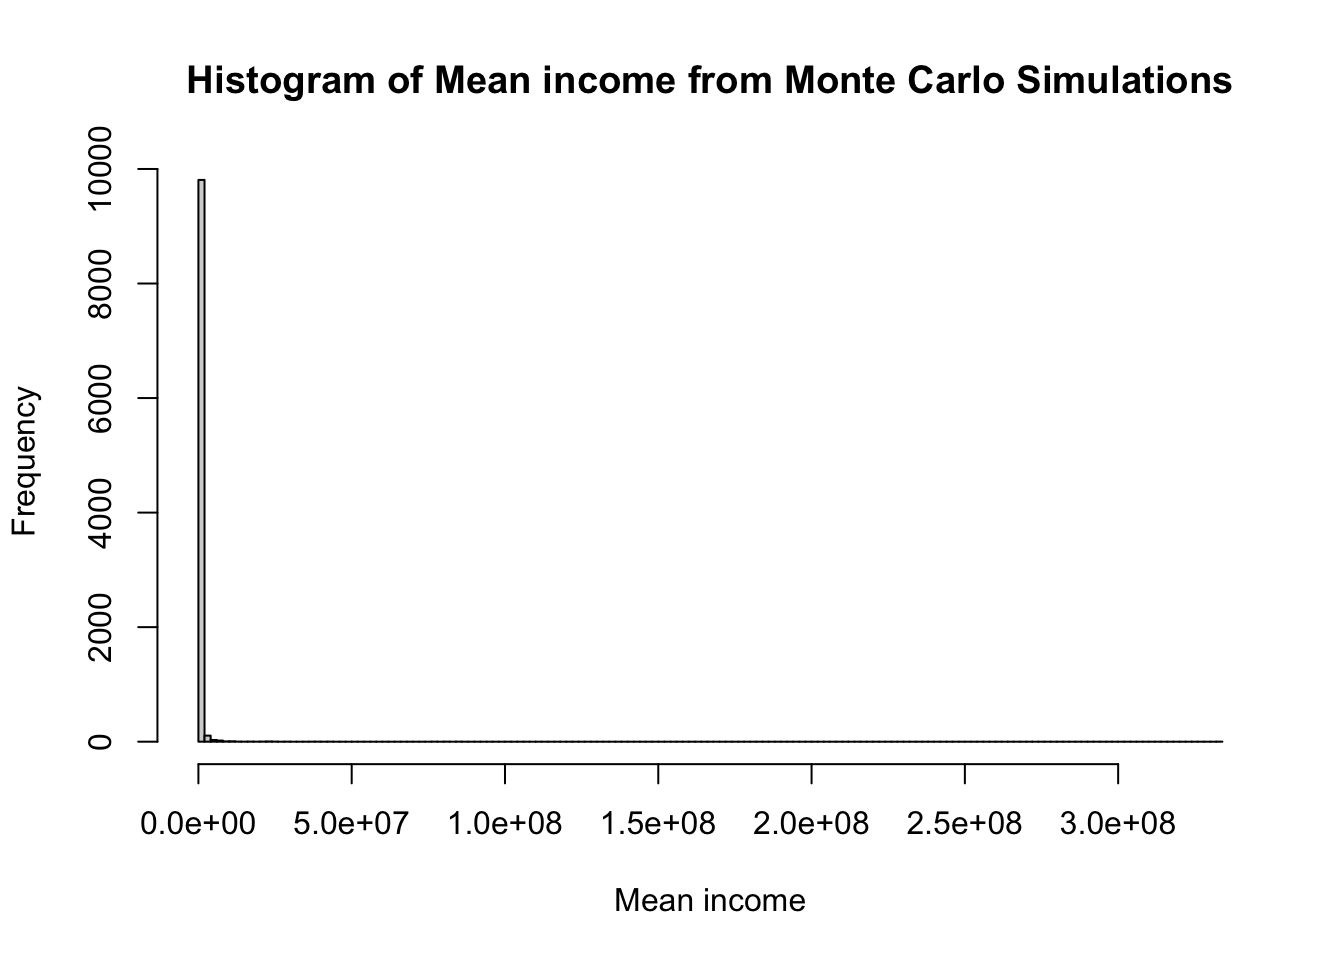
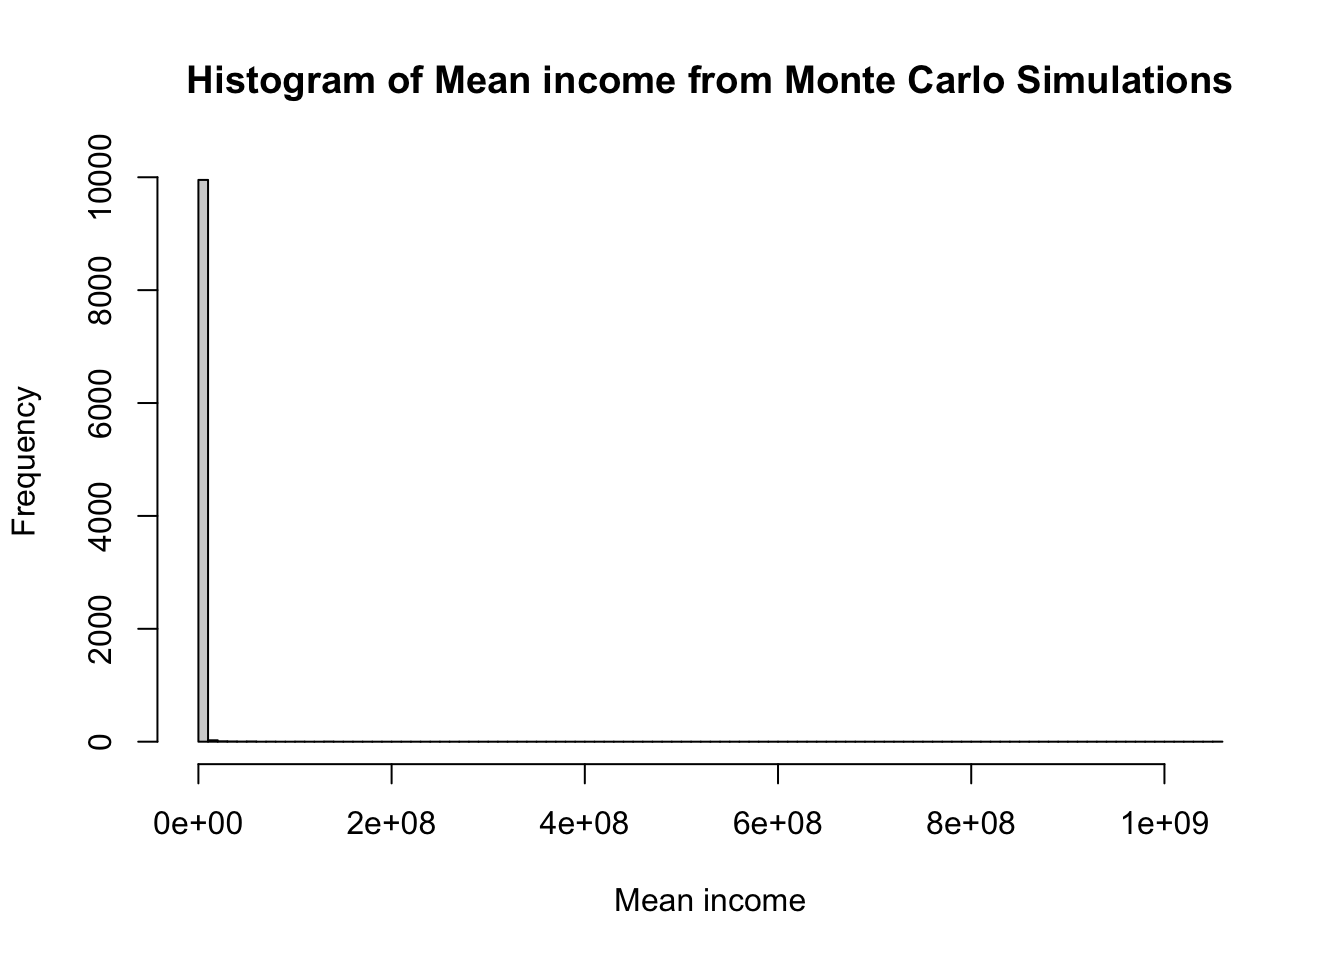
jenson 2

diff --git a/docs/Catallactics/Personal/jenson.html b/docs/Catallactics/Personal/jenson.html
@@ -920,12 +920,26 @@ E(g) &gt;= f(E(x))
 <blockquote class="blockquote">
 <p>Never put all eggs in one basket of similar risk-pay-off profile.</p>
 </blockquote>
-<p>Our immediate hunch will be to distribute the asset in all possible values of x to get an expected pay-off which is greater than the sum of the individual returns. Problem with this approach is the fact that we are neglecting the play of probability where the moral expectation is the true pay-off or return. In other words, the true return is not the arithmetic mean, it is the geometric mean of probability weighted return on capital.</p>
+<p>Our immediate hunch will be to distribute the asset in all possible values of x to get an expected pay-off which is greater than the sum of the individual returns. Problem with this approach is the fact that we are neglecting the play of probability where the moral expectation is the true pay-off or return.</p>
+<div class="callout callout-style-default callout-caution callout-titled">
+<div class="callout-header d-flex align-content-center">
+<div class="callout-icon-container">
+<i class="callout-icon"></i>
+</div>
+<div class="callout-title-container flex-fill">
+Caution
+</div>
+</div>
+<div class="callout-body-container callout-body">
+<p>In other words, the true return is not the arithmetic mean, it is the geometric mean of probability weighted return on capital.</p>
+</div>
+</div>
+<p>Then, what should be our strategy?</p>
+<p>It is impossible to predict the future return. What we can do is try to domesticate uncertainty by limiting the downside risk to minimum fixed value while keeping all the upside risks untouched.</p>
 </section>
 </section>
 <section id="best-of-both-worlds" class="level2">
 <h2 class="anchored" data-anchor-id="best-of-both-worlds">Best of both worlds</h2>
-<p>What we need is not indiscriminate diversification. We can domesticate the uncertainty basically by two methods:</p>
 <p>§1. Deploy almost all assets in a risk free instrument and use a small amount of capital to speculate in a highly convex instrument</p>
 <p>§2. Deploy almost all assets in a moderately risky instrument and take insurance against downside</p>
 <div class="quarto-figure quarto-figure-center">

diff --git a/docs/posts/montecarlo.html b/docs/posts/montecarlo.html
@@ -1071,7 +1071,7 @@ Income distribution is not normal
 </details>
 <div class="cell-output cell-output-stdout">
 <pre><code>     Min.   1st Qu.    Median      Mean   3rd Qu.      Max. 
-   212546    295882    344663    572729    440821 332769364 </code></pre>
+2.110e+05 2.978e+05 3.456e+05 7.119e+05 4.414e+05 1.051e+09 </code></pre>
 </div>
 <details open="" class="code-fold">
 <summary>Code</summary>
@@ -1079,7 +1079,7 @@ Income distribution is not normal
 </details>
 <div class="cell-output cell-output-stdout">
 <pre><code>   Min. 1st Qu.  Median    Mean 3rd Qu.    Max. 
-  62383   64077   64512   64515   64948   67085 </code></pre>
+  62039   64068   64498   64512   64944   67003 </code></pre>
 </div>
 <details open="" class="code-fold">
 <summary>Code</summary>
@@ -1087,7 +1087,7 @@ Income distribution is not normal
 </details>
 <div class="cell-output cell-output-stdout">
 <pre><code>     Min.   1st Qu.    Median      Mean   3rd Qu.      Max. 
-1.008e+06 3.302e+06 5.691e+06 2.789e+07 1.218e+07 3.324e+10 </code></pre>
+8.913e+05 3.341e+06 5.759e+06 4.138e+07 1.221e+07 1.018e+11 </code></pre>
 </div>
 </div>
 </section>

diff --git a/docs/Biomedical/Research Methodology/wrangling.html b/docs/Biomedical/Research Methodology/wrangling.html
@@ -2369,10 +2369,10 @@ Record
    &lt;int&gt; &lt;int&gt; &lt;fctr&gt;
 1:     1     1  child
 2:     2     0  child
-3:     3     0  child
+3:     3     1  child
 4:     4     1  child
 5:     5     0  child
-6:     6     1  child</code></pre>
+6:     6     0  child</code></pre>
 </div>
 </div>
 <section id="making-data-wide" class="level3">
@@ -2392,10 +2392,10 @@ Record
    &lt;int&gt; &lt;fctr&gt; &lt;fctr&gt;
 1:     1   &lt;NA&gt;  child
 2:     2  child   &lt;NA&gt;
-3:     3  child   &lt;NA&gt;
+3:     3   &lt;NA&gt;  child
 4:     4   &lt;NA&gt;  child
 5:     5  child   &lt;NA&gt;
-6:     6   &lt;NA&gt;  child</code></pre>
+6:     6  child   &lt;NA&gt;</code></pre>
 </div>
 </div>
 

diff --git a/docs/Revision notes/Diagrams/diagrams.html b/docs/Revision notes/Diagrams/diagrams.html
@@ -1351,7 +1351,7 @@ window.document.addEventListener("DOMContentLoaded", function (event) {
 </div>
   </div>
 </footer>
-<script>var lightboxQuarto = GLightbox({"loop":false,"openEffect":"zoom","selector":".lightbox","descPosition":"bottom","closeEffect":"zoom"});
+<script>var lightboxQuarto = GLightbox({"loop":false,"closeEffect":"zoom","descPosition":"bottom","selector":".lightbox","openEffect":"zoom"});
 window.onload = () => {
   lightboxQuarto.on('slide_before_load', (data) => {
     const { slideIndex, slideNode, slideConfig, player, trigger } = data;
